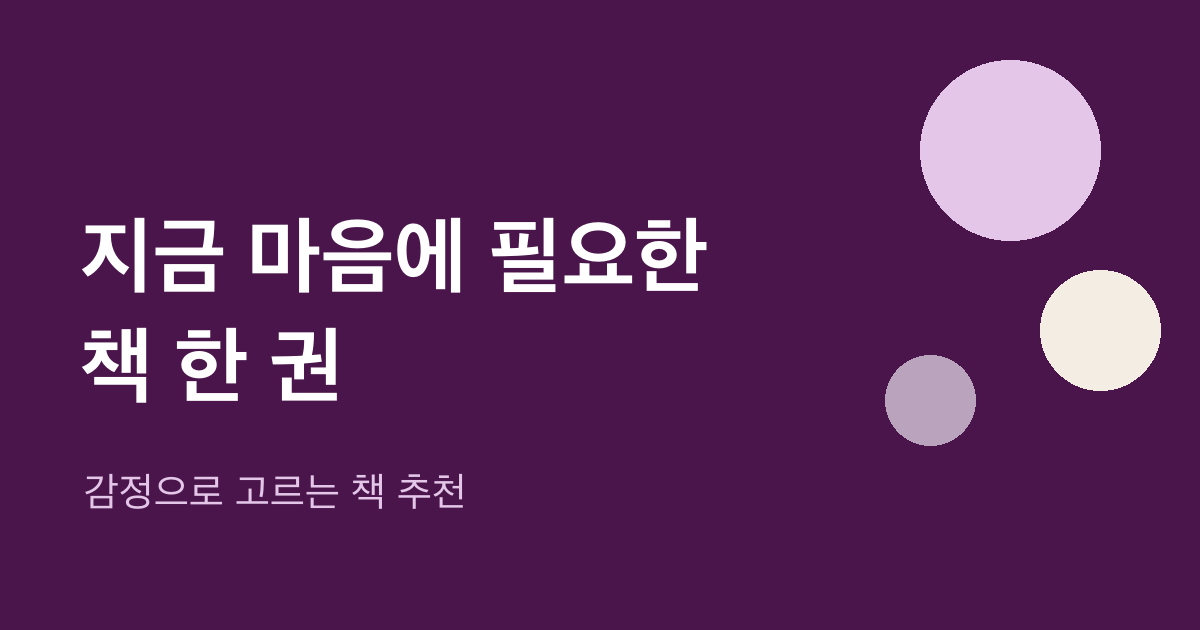
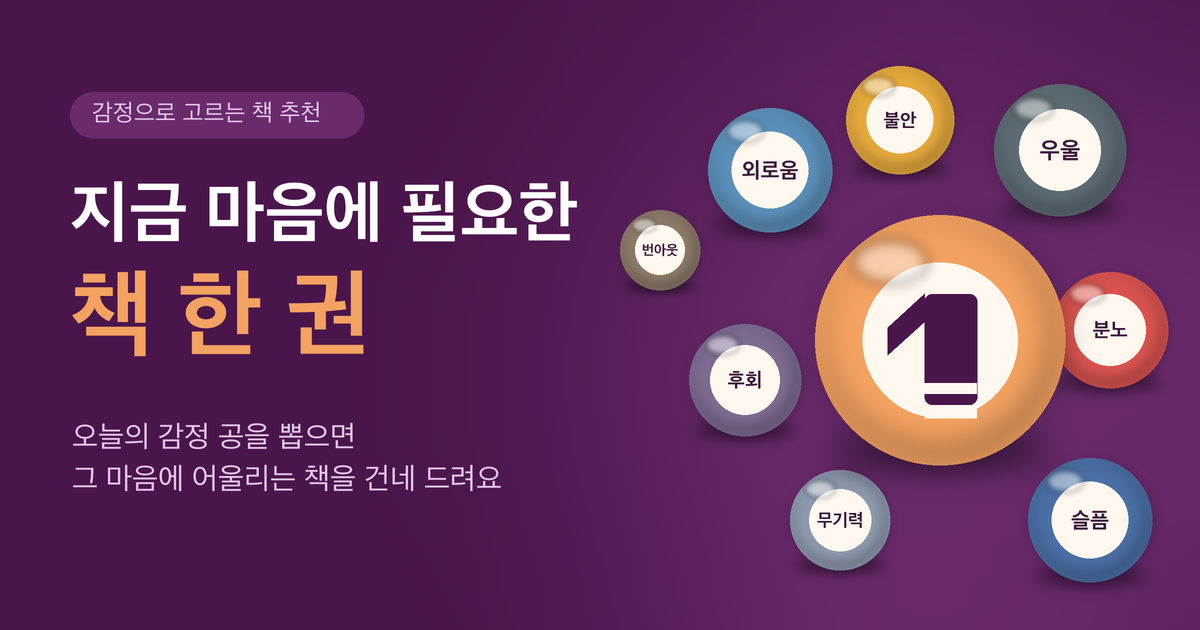
파비콘·애플 터치 아이콘·OG 이미지를 새 디자인으로 교체_v0.9
브라우저 탭, 아이폰 홈 화면, 링크 공유 미리보기에서 서비스 아이콘이 일관되게 보이도록 favicon.ico와 apple-touch-icon.png를 추가하고 og.png를 갱신했다.

diff --git a/index.html b/index.html
@@ -8,7 +8,9 @@
 <link rel="canonical" href="https://mind-tracker-test.vercel.app/">
 <meta name="robots" content="index,follow">
 <meta name="theme-color" content="#4a154b">
+<link rel="icon" href="/favicon.ico" sizes="48x48">
 <link rel="icon" href="/favicon.svg" type="image/svg+xml">
+<link rel="apple-touch-icon" href="/apple-touch-icon.png">
 <meta name="apple-mobile-web-app-title" content="마음 한 권">
 <meta property="og:type" content="website">
 <meta property="og:site_name" content="지금 마음에 필요한 책 한 권">

diff --git a/maum-lottery/index.html b/maum-lottery/index.html
@@ -8,7 +8,9 @@
 <link rel="canonical" href="https://mind-tracker-test.vercel.app/">
 <meta name="robots" content="index,follow">
 <meta name="theme-color" content="#4a154b">
+<link rel="icon" href="/favicon.ico" sizes="48x48">
 <link rel="icon" href="/favicon.svg" type="image/svg+xml">
+<link rel="apple-touch-icon" href="/apple-touch-icon.png">
 <meta name="apple-mobile-web-app-title" content="마음 한 권">
 <meta property="og:type" content="website">
 <meta property="og:site_name" content="지금 마음에 필요한 책 한 권">
